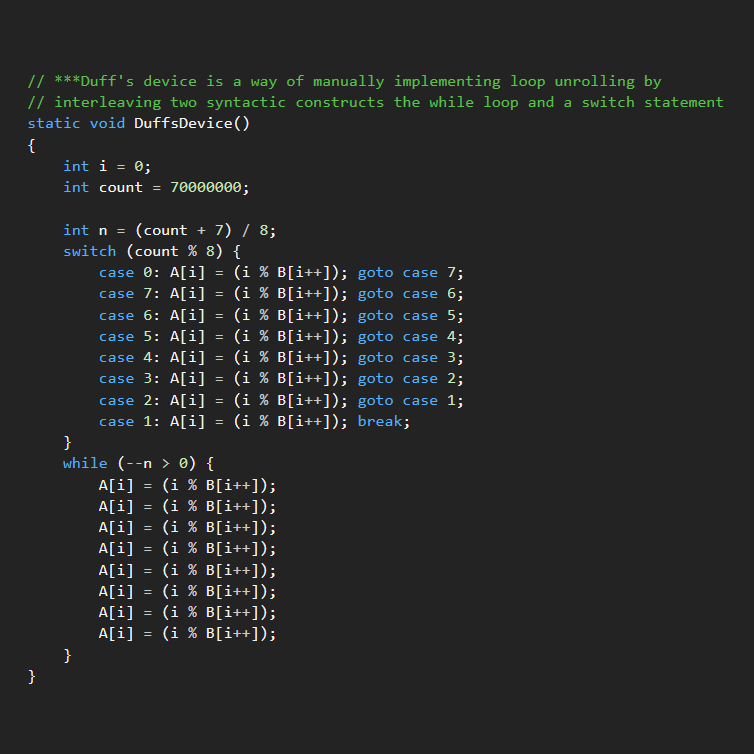
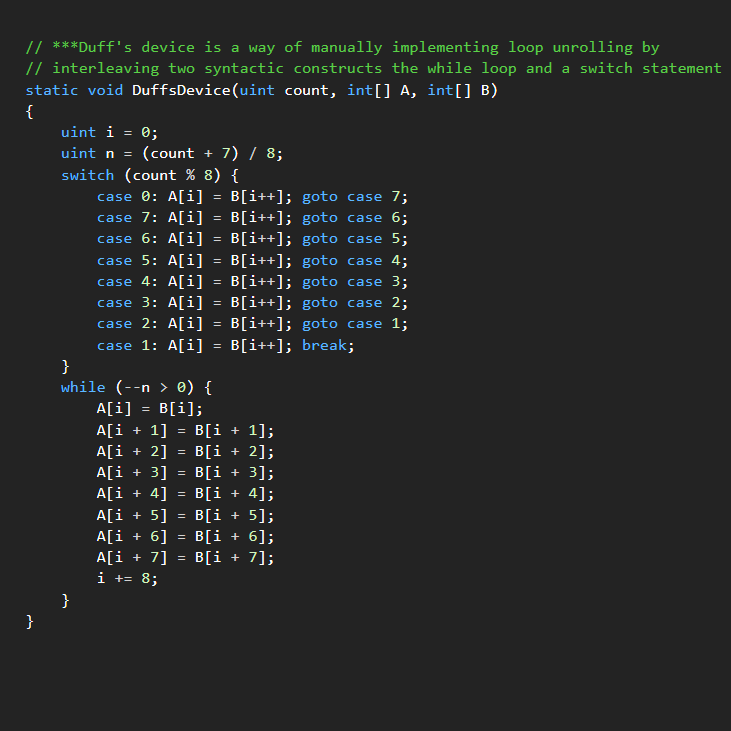
Algorithms

Changed region(s): [[0.0301, 0.0602, 0.9932, 0.8728]]

diff --git a/Loops/Loop Unwinding (optimization).cs b/Loops/Loop Unwinding (optimization).cs
@@ -3,67 +3,64 @@ using static System.Console;
 
 class Program
 {
-    static Stopwatch watch;
-    static int[] A = new int[70000000],
-                 B = new int[70000000];
-
     static void Main()
     {
+        uint size = 80000000;
+        var A = new int[size];
         #region "B" array filling
-        for (int i = 0; i < 70000000; i++)
-                 B[i] = i + 1;
+        var B = new int[size];
+        for (int i = 0; i < size; i++)
+            B[i] = i + 1;
         #endregion
 
 
-        watch = Stopwatch.StartNew();
-        NormalLoop();
+        var watch = Stopwatch.StartNew();
+        NormalLoop(size, A, B);
         watch.Stop();
         // Normal loop
-        WriteLine("Elapsed ms: " + watch.ElapsedMilliseconds); // Elapsed ms: ~1680
+        WriteLine("Elapsed ms: " + watch.ElapsedMilliseconds); // Elapsed ms: ~614
 
         watch = Stopwatch.StartNew();
-        AfterLoopUnrolling();
+        AfterLoopUnrolling(size, A, B);
         watch.Stop();
         // After loop unrolling
-        WriteLine("Elapsed ms: " + watch.ElapsedMilliseconds); // Elapsed ms: ~1400
+        WriteLine("Elapsed ms: " + watch.ElapsedMilliseconds); // Elapsed ms: ~320
 
         watch = Stopwatch.StartNew();
-        DuffsDevice();
+        DuffsDevice(size, A, B);
         watch.Stop();
         // Duff's device a functionally equivalent version
-        WriteLine("Elapsed ms: " + watch.ElapsedMilliseconds); // Elapsed ms: ~380 (not used "Mod" operation)
+        WriteLine("Elapsed ms: " + watch.ElapsedMilliseconds); // Elapsed ms: ~307
     }
 
-    static void NormalLoop()
+    static void NormalLoop(uint count, int[] A, int[] B)
     {
-        for (int i = 0; i < 70000000; i++)
+        for (int i = 0; i < count; i++)
         {
-            A[i] = (i % B[i]);
+            A[i] = B[i];
         }
     }
 
     // ***this optimization consisting in an artificial
     // increase in the number of instructions
-    static void AfterLoopUnrolling()
+    static void AfterLoopUnrolling(uint count, int[] A, int[] B)
     {
-        for (int i = 0; i < 70000000 - 4; i += 5)
+        for (int i = 0; i < count - 4; i += 5)
         {
-            A[i] = (i % B[i]);
-            A[i + 1] = ((i + 1) % B[i + 1]);
-            A[i + 2] = ((i + 2) % B[i + 2]);
-            A[i + 3] = ((i + 3) % B[i + 3]);
-            A[i + 4] = ((i + 4) % B[i + 4]);
+            A[i] = B[i];
+            A[i + 1] = B[i + 1];
+            A[i + 2] = B[i + 2];
+            A[i + 3] = B[i + 3];
+            A[i + 4] = B[i + 4];
         }
     }
 
     // ***Duff's device is a way of manually implementing loop unrolling by
     // interleaving two syntactic constructs the while loop and a switch statement
-    static void DuffsDevice()
+    static void DuffsDevice(uint count, int[] A, int[] B)
     {
-        int i = 0;
-        int count = 70000000;
-
-        int n = (count + 7) / 8;
+        uint i = 0;
+        uint n = (count + 7) / 8;
         switch (count % 8) {
             case 0: A[i] = B[i++]; goto case 7;
             case 7: A[i] = B[i++]; goto case 6;
@@ -75,14 +72,15 @@ class Program
             case 1: A[i] = B[i++]; break;
         }
         while (--n > 0) {
-            A[i] = B[i++];
-            A[i] = B[i++];
-            A[i] = B[i++];
-            A[i] = B[i++];
-            A[i] = B[i++];
-            A[i] = B[i++];
-            A[i] = B[i++];
-            A[i] = B[i++];
+            A[i] = B[i];
+            A[i + 1] = B[i + 1];
+            A[i + 2] = B[i + 2];
+            A[i + 3] = B[i + 3];
+            A[i + 4] = B[i + 4];
+            A[i + 5] = B[i + 5];
+            A[i + 6] = B[i + 6];
+            A[i + 7] = B[i + 7];
+            i += 8;
         }
     }
 }
